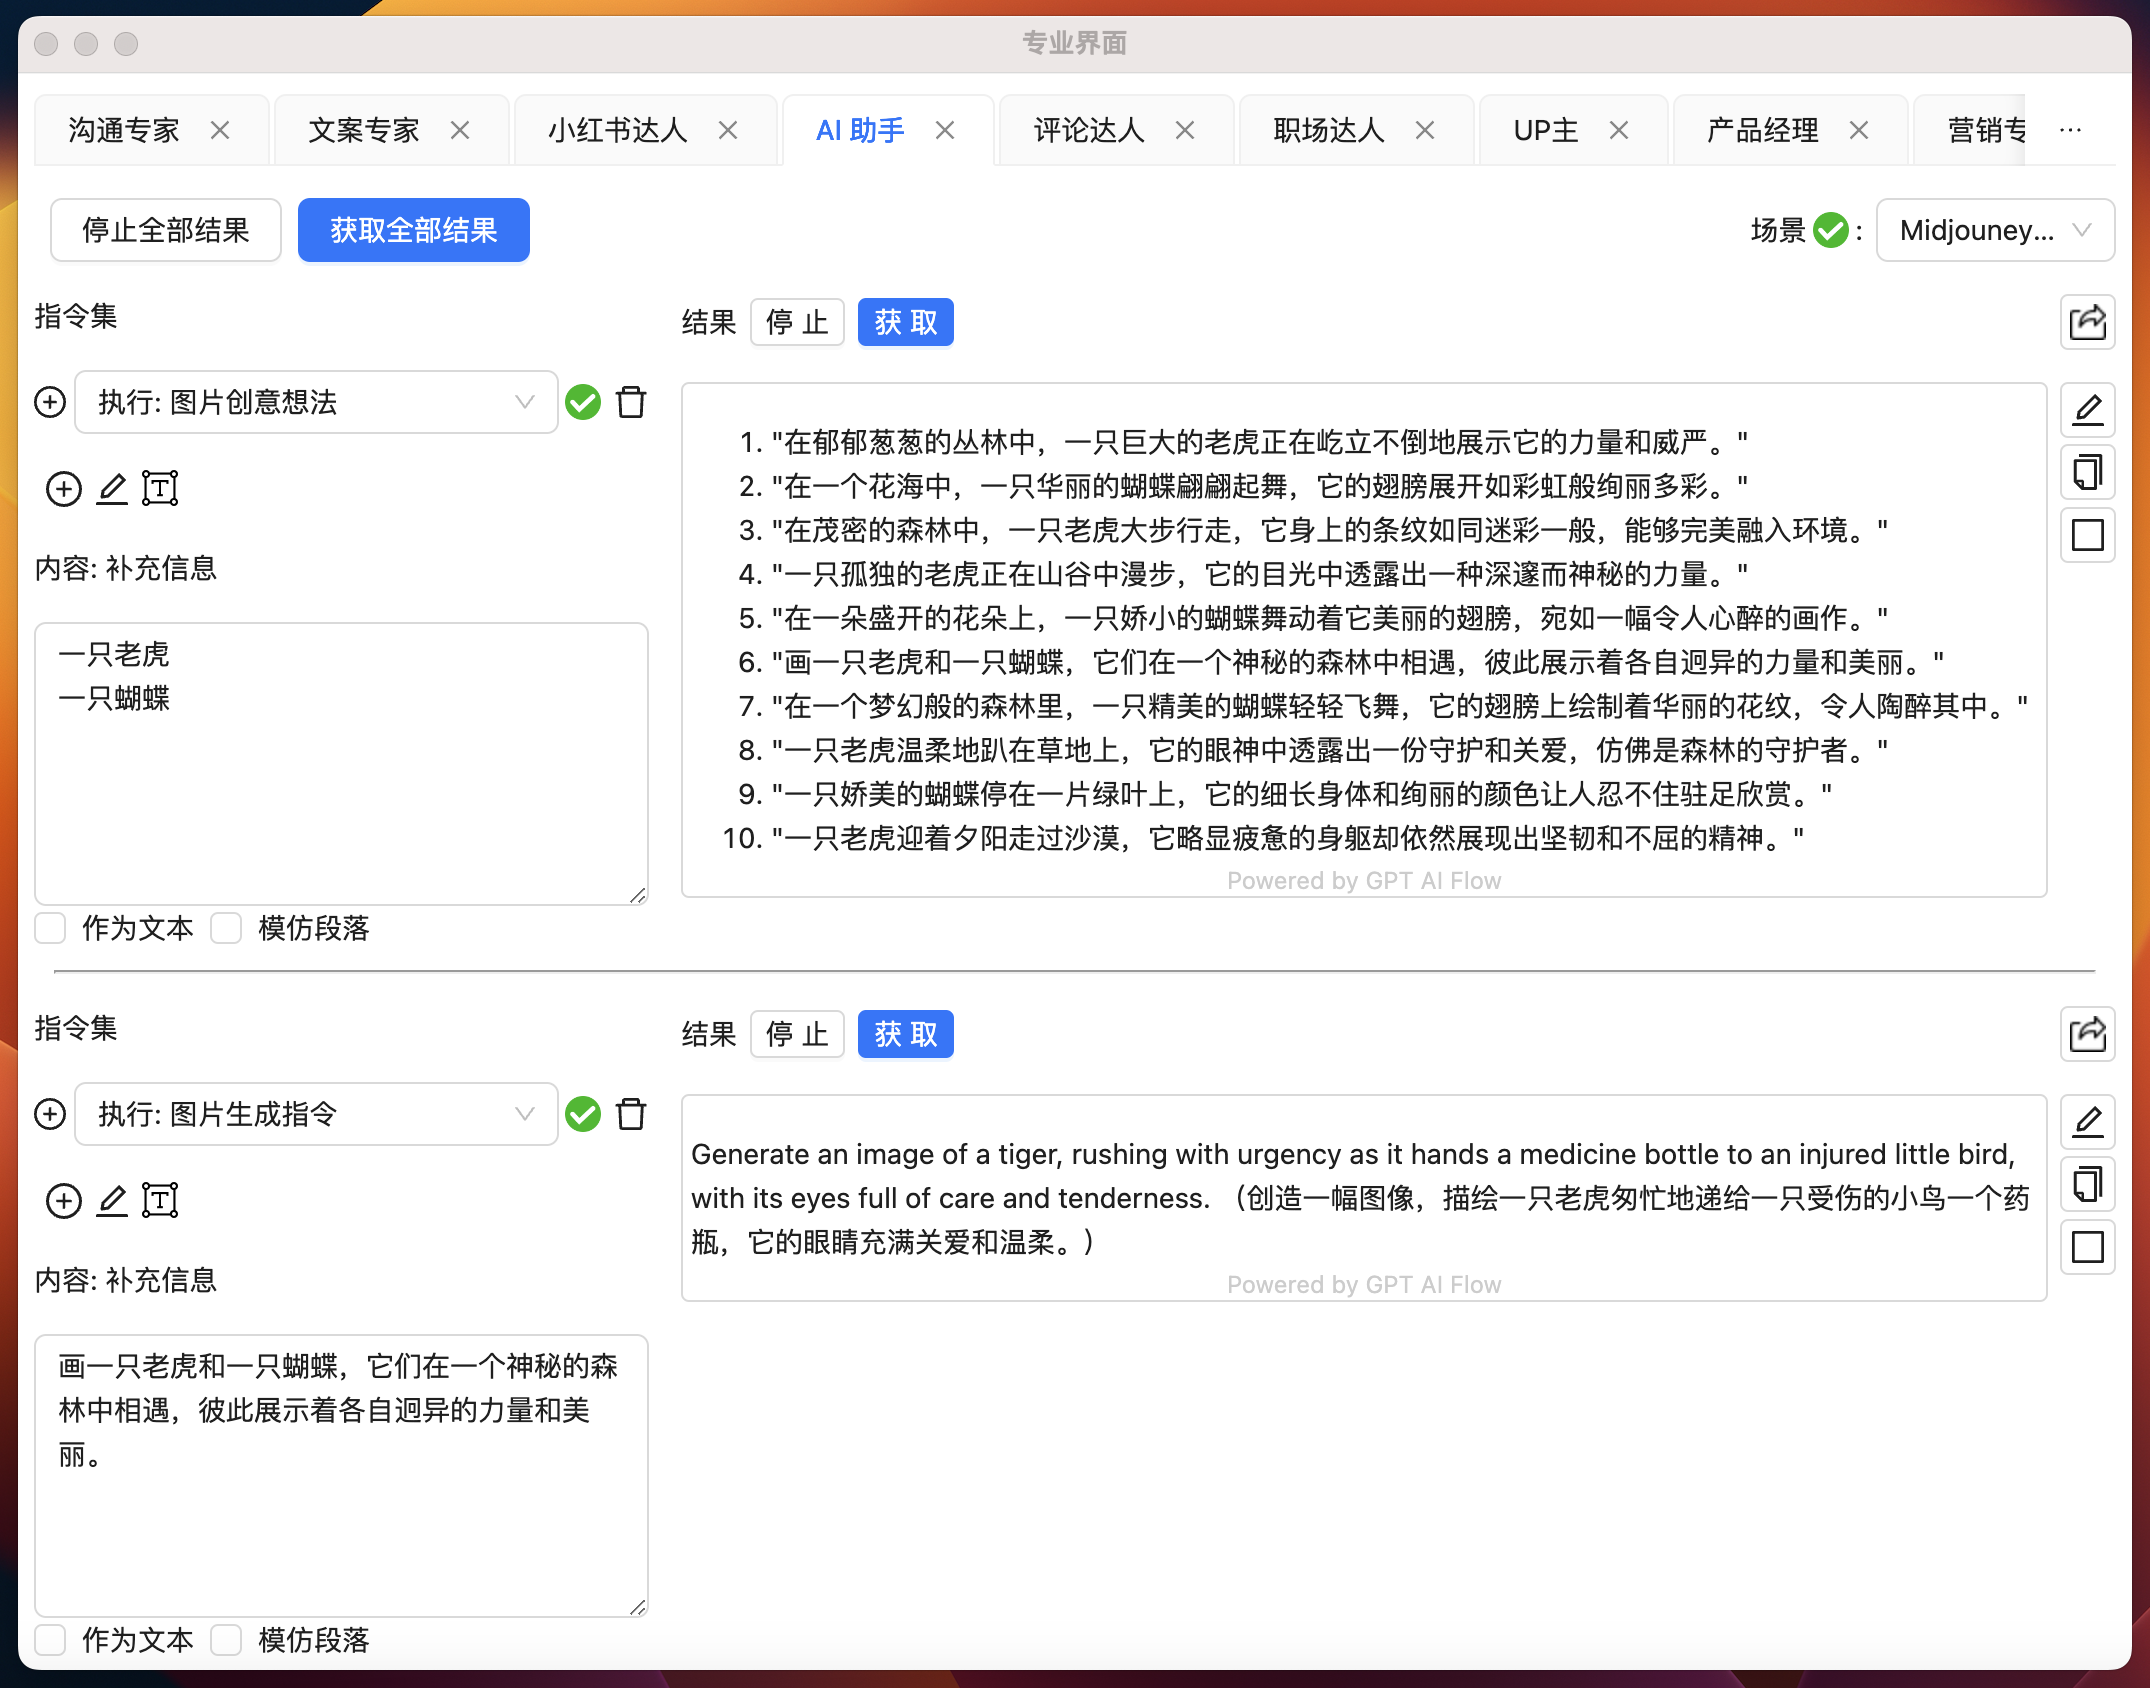
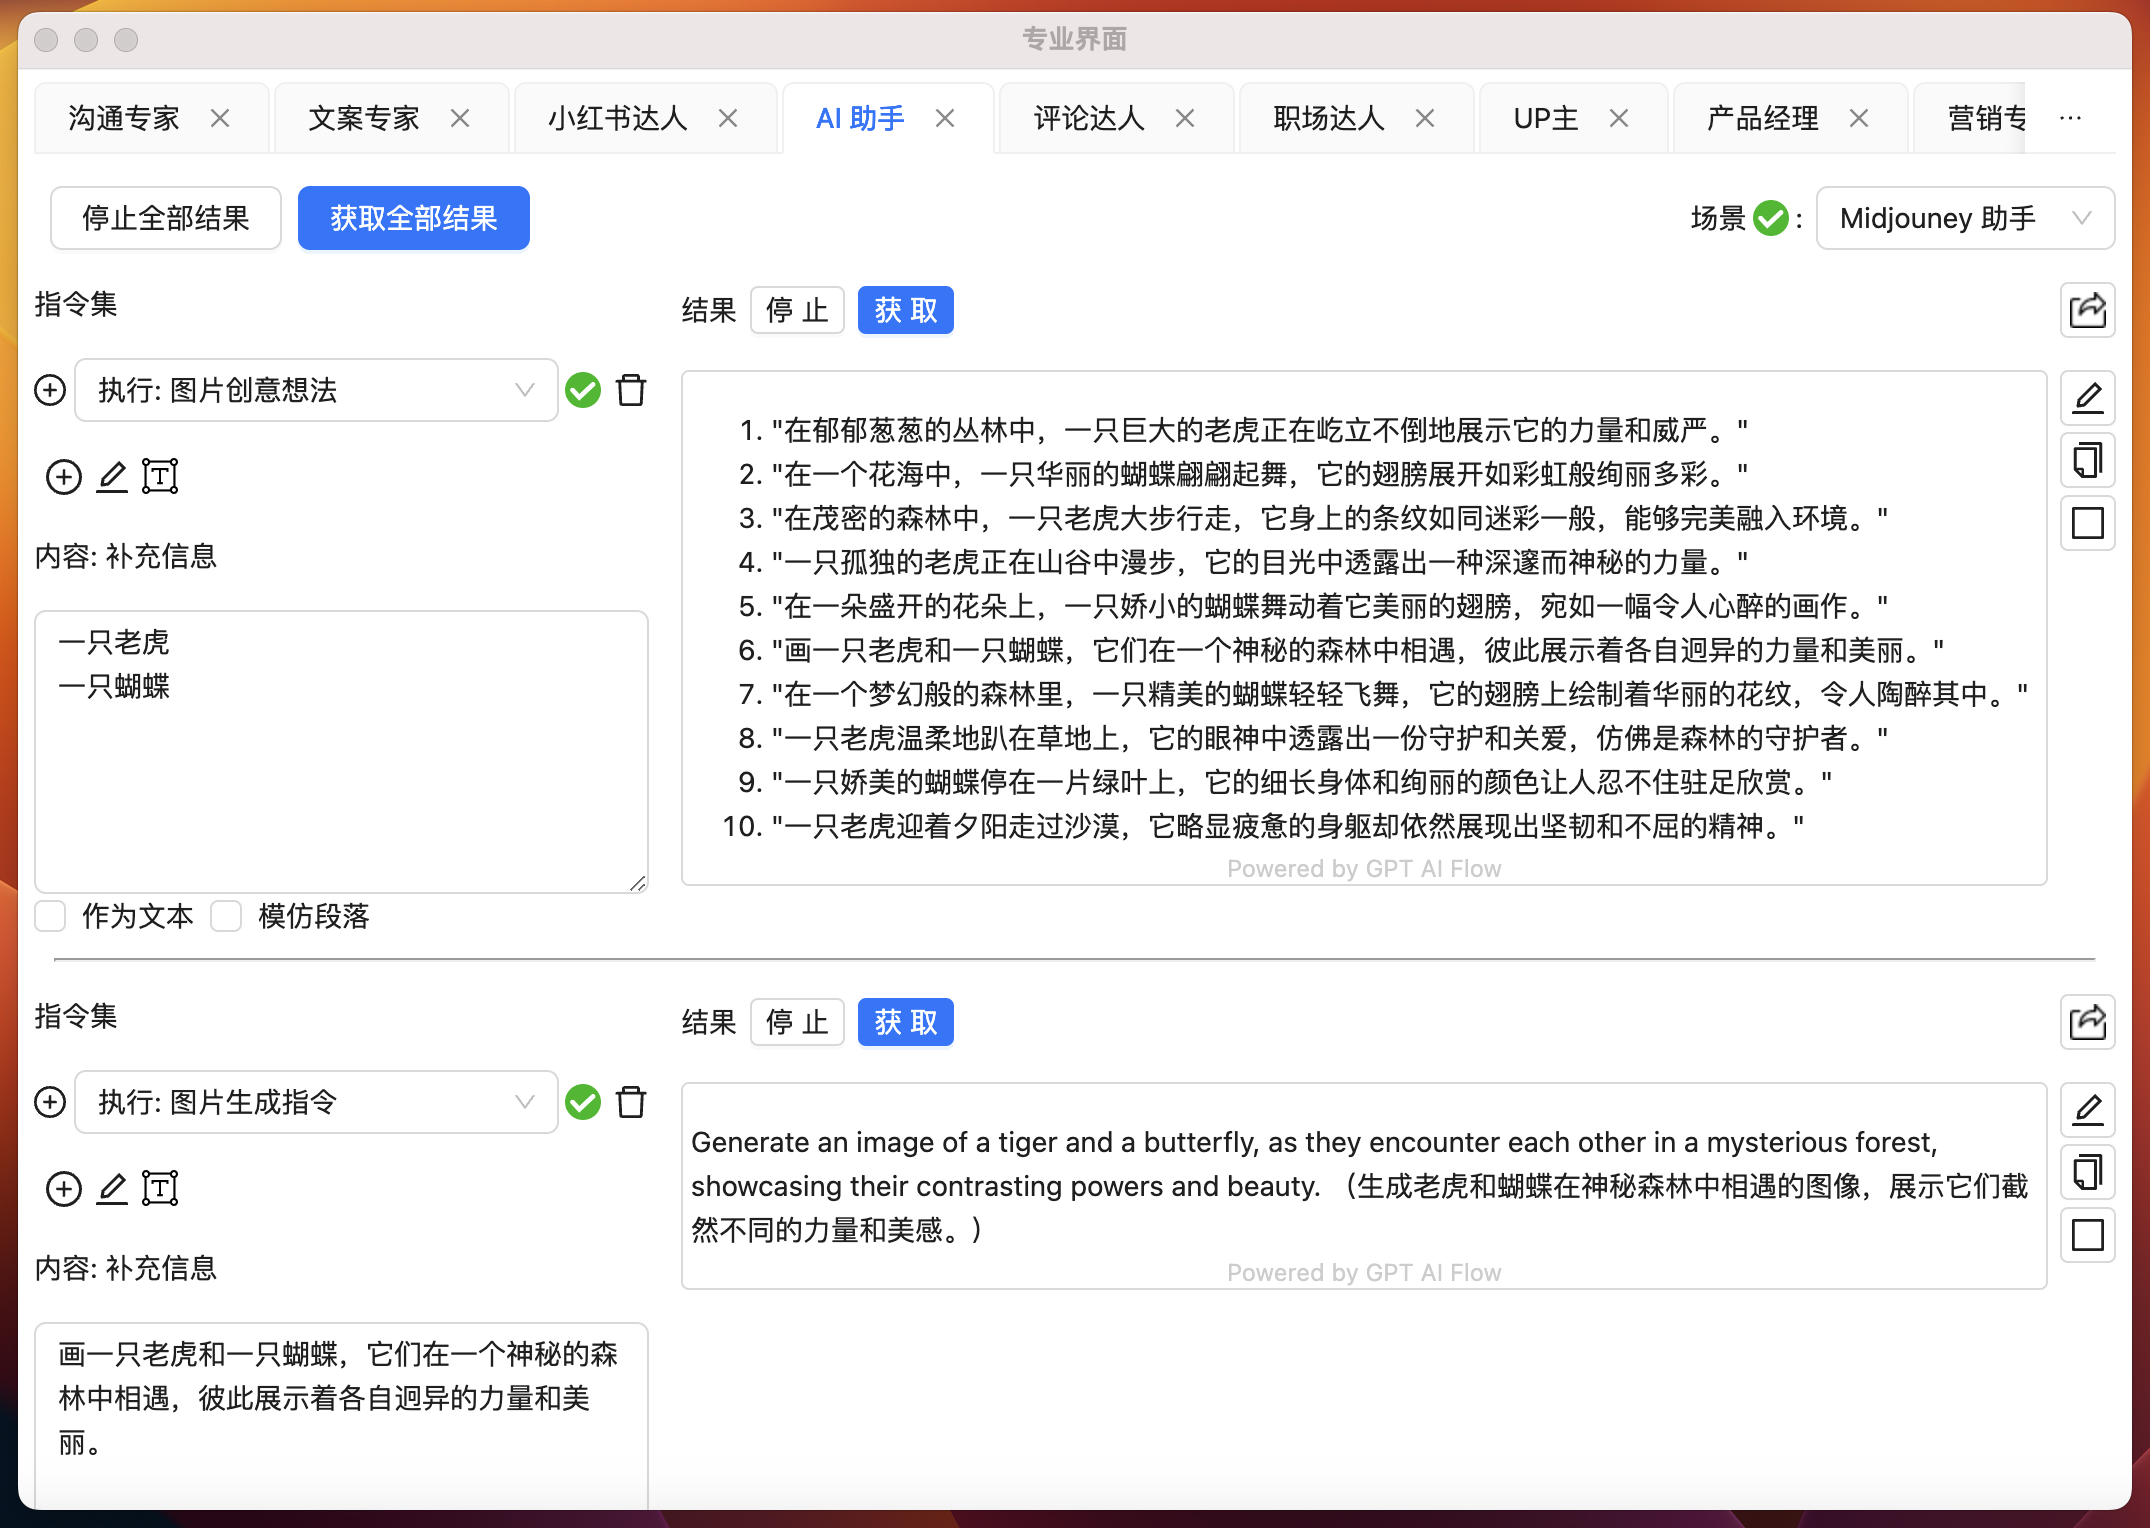
upfda

diff --git a/docs/3-application-scenarios/12-aiAssistant.md b/docs/3-application-scenarios/12-aiAssistant.md
@@ -4,6 +4,10 @@
 
 ![](./img/12-aiAssistant/2023-09-27-img-1-WX20230927-223938@2x.png)
 
+```text
+Generate an image of a tiger and a butterfly, as they encounter each other in a mysterious forest, showcasing their contrasting powers and beauty.（生成老虎和蝴蝶在神秘森林中相遇的图像，展示它们截然不同的力量和美感。）
+```
+
 ![](./img/12-aiAssistant/2023-09-27-img-2-00015-1702000416.png)
 
 ## 联系我们
